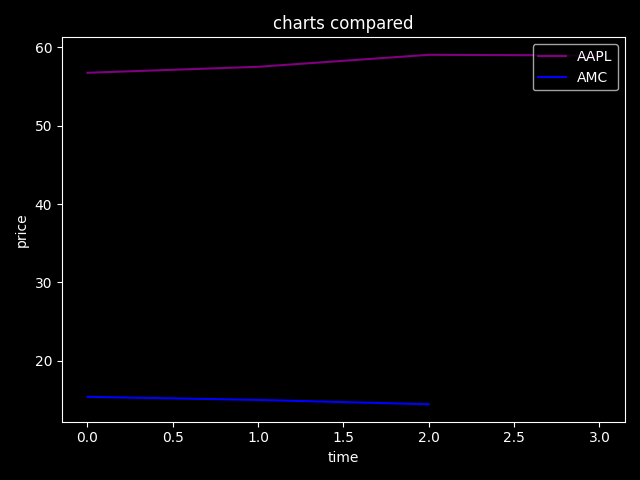
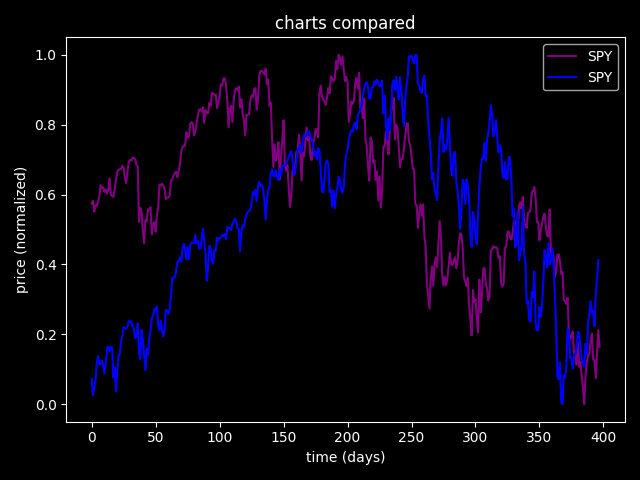
cleanup

diff --git a/charter.py b/charter.py
@@ -1,5 +1,4 @@
 """Generates the chart"""
-import pandas as pd
 import matplotlib.pyplot as plt
 
 
@@ -12,9 +11,11 @@ class Charter():
         plt.title("charts compared")
         colors = ["red","orange","yellow","green","blue","purple"]
         for stock in stocks:
-            plt.plot(stock.dataframe, color=colors.pop(), label=stock.symbol)
+            dtf = stock.dataframe
+            normalized_dtf = (dtf-dtf.min())/(dtf.max()-dtf.min())
+            plt.plot(normalized_dtf, color=colors.pop(), label=stock.symbol)
         plt.legend(loc="upper right")
-        plt.xlabel("time")
-        plt.ylabel("price")
+        plt.xlabel("time (days)")
+        plt.ylabel("price (normalized)")
         plt.tight_layout()
         plt.savefig("output.png")

diff --git a/parser.py b/parser.py
@@ -5,9 +5,8 @@ from runner import Runner
 
 parser = argparse.ArgumentParser(
     description="Compare stock charts.",
-    usage="There is no limit to stoks you want to compare.\n\
-        Format of a single stock: symbol YYYY-MM-DD YYYY-MM-DD\n\
-        Example: AAPL 2019-10-10 2019-10-15 GOOGL 2018-01-01 2018-01-05"
+    usage="Stock format: symbol YYYY-MM-DD YYYY-MM-DD\n\
+        Example: SPY 2007-01-01 2008-08-01 SPY 2021-01-01 2022-08-01"
 )
 parser = argparse.ArgumentParser()
 parser.add_argument("symbol_snippet", action='append', nargs='+')

diff --git a/data_retriever.py b/data_retriever.py
@@ -1,7 +1,6 @@
 """Retrieves the data"""
-from stock import Stock
 import yfinance as yf
-import pandas as pd
+from stock import Stock
 
 
 class DataRetriever:

diff --git a/README.md b/README.md
@@ -1,12 +1,10 @@
 # stock-chart-compare
-Compares stock charts of different stocks and or time frames.
+Compares stock charts of different stocks and time frames.
 
 ### installation
 ```pip install stock-chart-compare```
 
 ### usage
-```stock-chart-compare symbol YYYY/MM/DD-YYYY/MM/DD symbol YYYY/MM/DD-YYYY/MM/DD```
-### example 1
-```stock-chart-compare AAPL 2020/05/21-2020/06/10 MSFT 2019/03/23-2019/03/24```
-### example 2
-```stock-chart-compare AAPL 2020/05/21-2020/06/10 AAPL 2019/03/23-2019/03/24 MSFT 2019/03/23-2019/03/24```
+```stock-chart-compare symbol YYYY-MM-DD YYYY-MM-DD symbol YYYY-MM-DD YYYY-MM-DD```
+### example
+```stock-chart-compare SPY 2007-01-01 2008-08-01 SPY 2021-01-01 2022-08-01```
